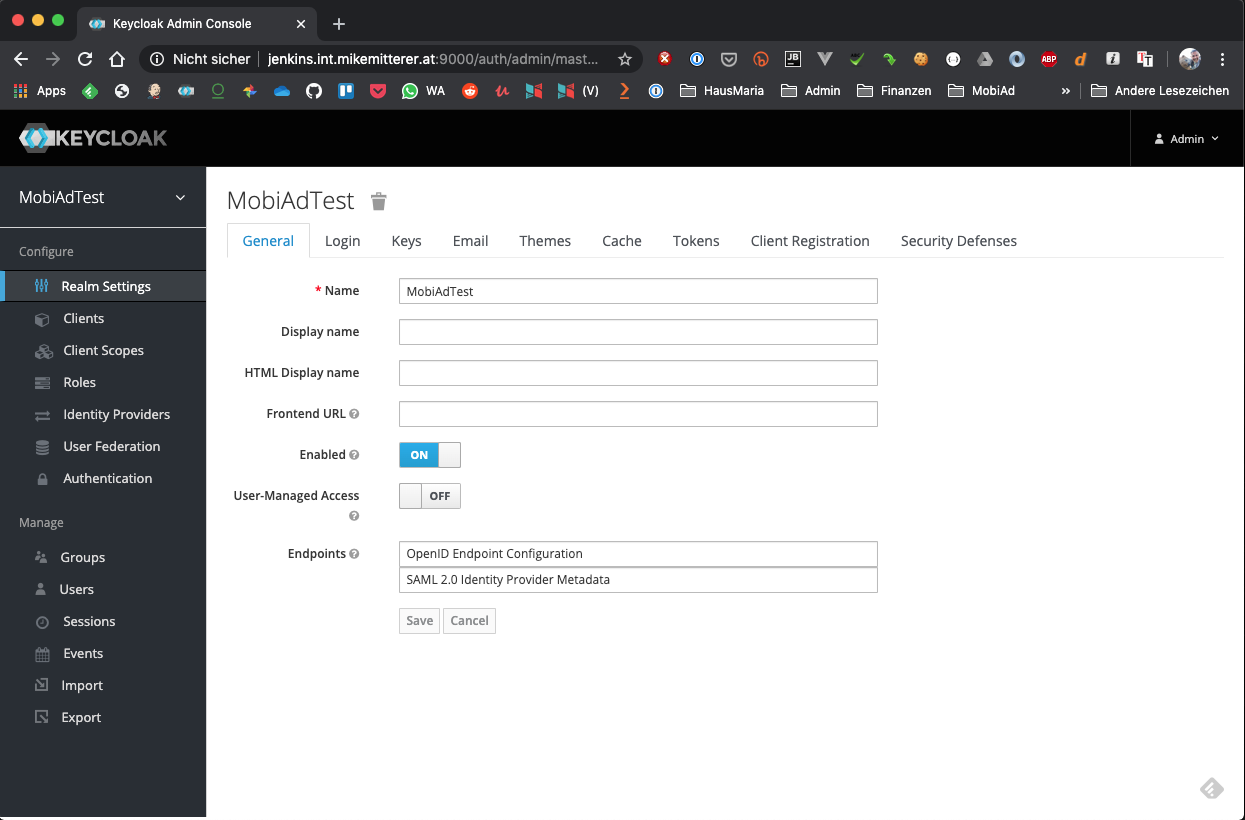
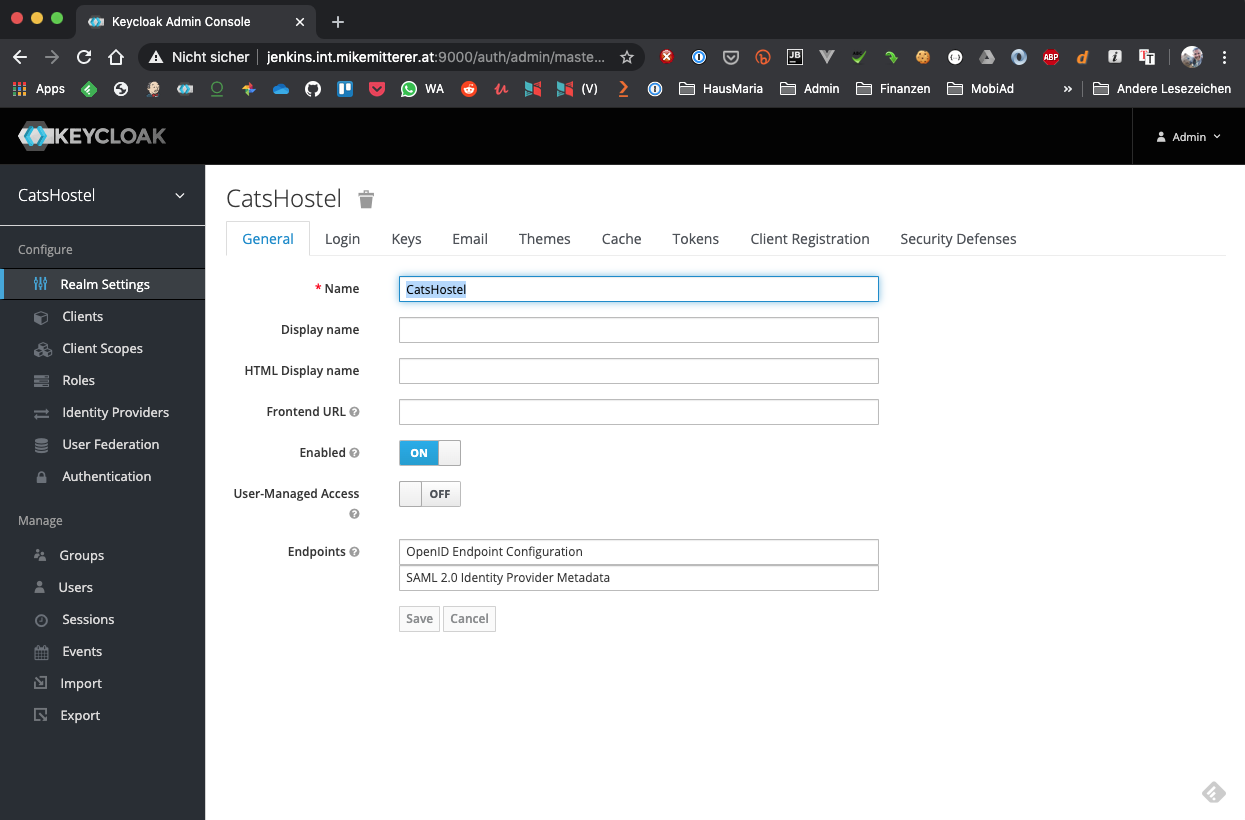
Changed Realm to CatsHostel

diff --git a/test/unit/at/mikemitterer/tdd/KeyCloak.kt b/test/unit/at/mikemitterer/tdd/KeyCloak.kt
@@ -31,12 +31,12 @@ class KeyCloak(private val restTemplate: TestRestTemplate) {
         val parameters: MultiValueMap<String, String> = LinkedMultiValueMap<String, String>().apply {
             add("username", username)
             add("password", password)
-            add("client_id", TestConfig.KeyCloakServer.clientID)
+            add("client_id", KeyCloakConfig.Server.clientID)
             add("grant_type", "password")
         }
 
         val response = restTemplate
-                .postFormEntity(TestConfig.KeyCloakServer.Urls.tokenUrl, parameters, JsonObject::class.java)
+                .postFormEntity(KeyCloakConfig.Server.Urls.tokenUrl, parameters, JsonObject::class.java)
 
         val obj = checkNotNull(response.body)
         return toToken(obj)
@@ -44,8 +44,8 @@ class KeyCloak(private val restTemplate: TestRestTemplate) {
 
     fun refreshToken(refreshToken: String): Tokens {
         val response = restTemplate
-                .postFormEntity(TestConfig.KeyCloakServer.Urls.tokenUrl, LinkedMultiValueMap<String, String>().apply {
-                    add("client_id",  TestConfig.KeyCloakServer.clientID)
+                .postFormEntity(KeyCloakConfig.Server.Urls.tokenUrl, LinkedMultiValueMap<String, String>().apply {
+                    add("client_id",  KeyCloakConfig.Server.clientID)
                     add("grant_type", "refresh_token")
                     add("refresh_token", refreshToken)
                 }, JsonObject::class.java)
@@ -58,7 +58,7 @@ class KeyCloak(private val restTemplate: TestRestTemplate) {
         val jwt = checkNotNull(JWT.decode(tokens.accessToken))
 
         //val jwkProvider = UrlJwkProvider("https://YOUR_TENANT.auth0.com/")
-        val jwkProvider = UrlJwkProvider( URL(TestConfig.KeyCloakServer.Urls.certsUrl)).get(jwt.keyId);
+        val jwkProvider = UrlJwkProvider( URL(KeyCloakConfig.Server.Urls.certsUrl)).get(jwt.keyId);
 
         val pubKey = jwkProvider.publicKey
         logger.info(pubKey.toString())
@@ -66,7 +66,7 @@ class KeyCloak(private val restTemplate: TestRestTemplate) {
         val algorithm: Algorithm = Algorithm.RSA256(jwkProvider.publicKey as RSAPublicKey, null)
 
         val verifier: JWTVerifier = JWT.require(algorithm)
-                .withIssuer(TestConfig.KeyCloakServer.Urls.issuer)
+                .withIssuer(KeyCloakConfig.Server.Urls.issuer)
                 .acceptExpiresAt(0)
                 .build()
 
@@ -77,7 +77,7 @@ class KeyCloak(private val restTemplate: TestRestTemplate) {
     fun verifyWithJWTS(tokens: Tokens, log: Boolean = true): Jws<Claims> {
         val jwt = JWT.decode(tokens.accessToken)
 
-        val jwkProvider = UrlJwkProvider( URL(TestConfig.KeyCloakServer.Urls.certsUrl)).get(jwt.keyId)
+        val jwkProvider = UrlJwkProvider( URL(KeyCloakConfig.Server.Urls.certsUrl)).get(jwt.keyId)
 
         val jwtParser = Jwts.parserBuilder()
                 .setSigningKey(jwkProvider.publicKey as RSAPublicKey)

diff --git a/test/unit/at/mikemitterer/tdd/KeyCloakConfig.kt b/test/unit/at/mikemitterer/tdd/KeyCloakConfig.kt
@@ -1,13 +1,15 @@
 package at.mikemitterer.tdd
 
 /**
+ * Wird zum Generieren der Tokens in [ at.mikemitterer.tdd.KeyCloak ] benötigt
  *
+ * Eigentlich sollten die Daten mit den Daten in application.properties übereinstimmen
  *
  * @since   26.05.20, 18:07
  */
-object TestConfig {
-    object KeyCloakServer {
-        private const val realm = "MobiAdTest"
+object KeyCloakConfig {
+    object Server {
+        private const val realm = "CatsHostel"
         private const val authHost = "http://jenkins.int.mikemitterer.at:9000" // KeyCloak-Server
 
         const val clientID = "catshostel-app"
